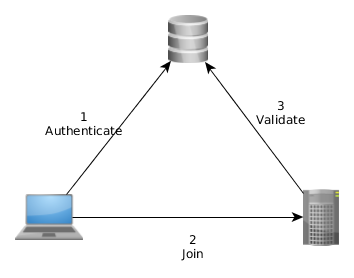
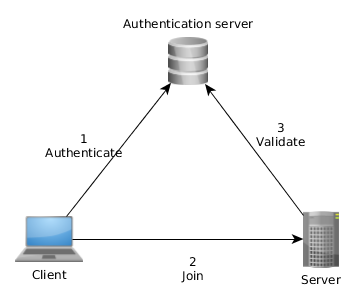
Fixes and improvements

Changed region(s): [[0.0621, 0.0288, 0.9633, 0.9496], [0.0311, 0.8345, 0.2175, 0.9209], [0.4972, 0.8345, 0.5904, 0.9496]]

diff --git a/FakingAnAuthenthicationServer/index.html b/FakingAnAuthenthicationServer/index.html
@@ -5,7 +5,7 @@
     <meta name="description" content="A presentation for my blogpost at rutkai.hu."/>
     <meta name="author" content="András Rutkai"/>
     <meta name="viewport" content="width=device-width, initial-scale=1.0, maximum-scale=1.0, user-scalable=no"/>
-    <title>Building a highly secure, cheap secondary backup from scratch</title>
+    <title>Faking an authentication server</title>
     <link rel="stylesheet" href="../reveal.js/css/reveal.min.css"/>
     <link rel="stylesheet" href="../reveal.js/css/theme/night.css" id="theme"/>
     <link rel="stylesheet" href="../reveal.js/lib/css/zenburn.css"/>
